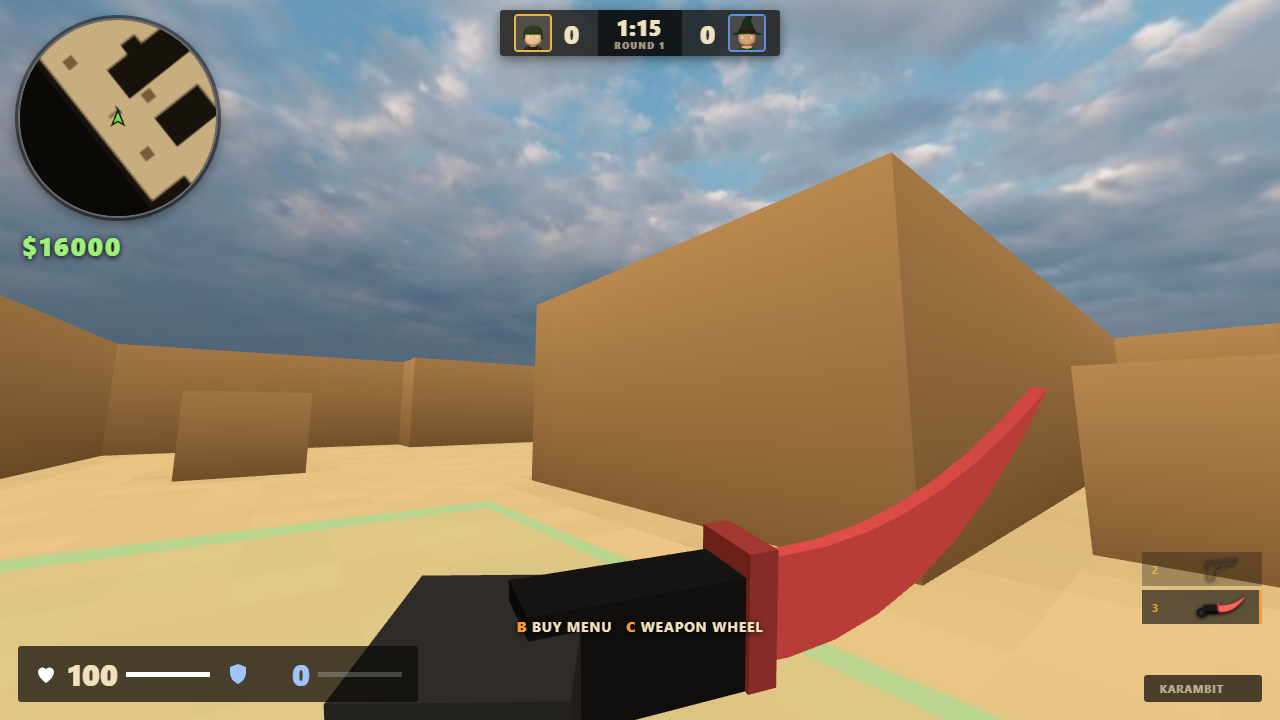
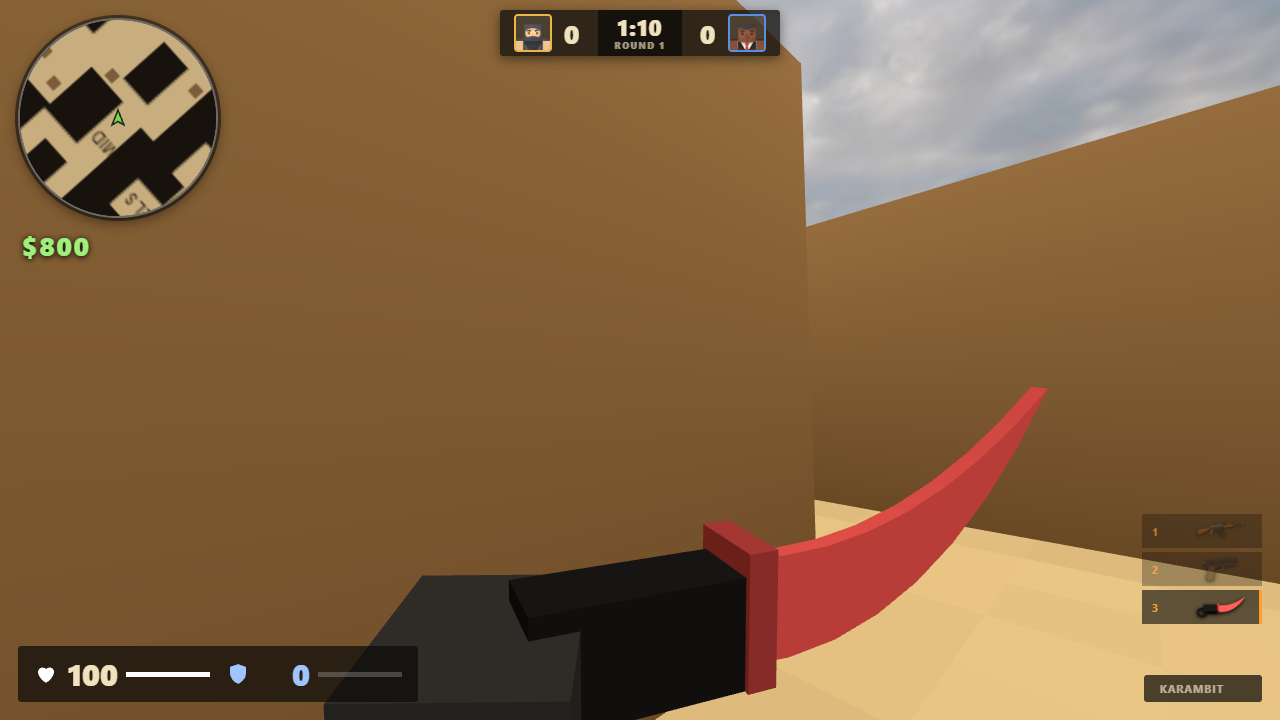
Refresh screenshots, compact the menu and make the weapon adjuster dev-only
- New menu, gameplay, buy wheel and karambit screenshots with the blocky
  characters
- Shrink menu rows so the new Mode and Minecraft rows still fit at 720p
- Show Adjust held weapon only with ?dev (open.py adds it)
- Expose the buy wheel on the debug hooks

diff --git a/index.html b/index.html
@@ -145,12 +145,12 @@
   #loadbar i { height: 11px; background: rgba(255,255,255,0.08); transition: background 0.15s; }
   #loadbar i.on { background: linear-gradient(#ffc069, #ff9d2e); box-shadow: 0 0 6px rgba(255,157,46,0.6); }
   .xp { display: flex; justify-content: space-between; font-size: 11px; font-weight: 700; letter-spacing: 0.08em; color: #fff; text-shadow: 0 1px 3px #000; margin-top: 2px; }
-  .abtn { position: relative; display: flex; align-items: stretch; width: 100%; height: clamp(44px, 8.6vh, 62px); margin: 0 0 10px; padding: 0; border: 0; background: none; cursor: pointer; color: #fff; font: inherit; text-align: left; filter: drop-shadow(0 3px 5px rgba(0,0,0,0.45)); transition: transform 0.12s, filter 0.12s; }
+  .abtn { position: relative; display: flex; align-items: stretch; width: 100%; height: clamp(38px, 6.6vh, 62px); margin: 0 0 10px; padding: 0; border: 0; background: none; cursor: pointer; color: #fff; font: inherit; text-align: left; filter: drop-shadow(0 3px 5px rgba(0,0,0,0.45)); transition: transform 0.12s, filter 0.12s; }
   .abtn:hover:not(:disabled) { transform: translateX(8px); filter: drop-shadow(0 3px 5px rgba(0,0,0,0.45)) brightness(1.12); }
   .abtn:disabled { cursor: default; filter: grayscale(0.85) brightness(0.8) drop-shadow(0 3px 5px rgba(0,0,0,0.45)); }
-  .abtn .ico { flex: 0 0 clamp(44px, 8.6vh, 62px); display: flex; align-items: center; justify-content: center; background: #3a3e45; border: 3px solid #555a63; }
+  .abtn .ico { flex: 0 0 clamp(38px, 6.6vh, 62px); display: flex; align-items: center; justify-content: center; background: #3a3e45; border: 3px solid #555a63; }
   .abtn .ico svg { width: 55%; height: 55%; fill: #fff; }
-  .abtn .lbl { flex: 1; display: flex; align-items: center; padding: 0 22px; margin-left: 6px; font-size: clamp(19px, 3.8vh, 30px); font-weight: 800; letter-spacing: 0.06em; text-transform: uppercase; text-shadow: 0 2px 3px rgba(0,0,0,0.5);
+  .abtn .lbl { flex: 1; display: flex; align-items: center; padding: 0 22px; margin-left: 6px; font-size: clamp(17px, 3.2vh, 30px); font-weight: 800; letter-spacing: 0.06em; text-transform: uppercase; text-shadow: 0 2px 3px rgba(0,0,0,0.5);
     background: linear-gradient(100deg, #d9731a 0%, #b4540d 78%, #5a5e66 78.2%, #6b7078 100%); clip-path: polygon(0 0, 92% 0, 100% 100%, 0 100%); }
   .abtn.alt .lbl { background: linear-gradient(100deg, #8a5a2a 0%, #6a431b 78%, #5a5e66 78.2%, #6b7078 100%); }
   .panel2 { margin: 4px 0 12px; padding: 14px 16px; background: rgba(15, 11, 6, 0.82); border: 1px solid rgba(255,255,255,0.18); color: #f1e2bf; font-size: 13px; }
@@ -165,7 +165,7 @@
   .loadout span { display: block; font-size: 11px; opacity: 0.8; margin-top: 2px; }
   .loadout svg { width: 54px; height: 34px; fill: #cfd3dc; flex: 0 0 auto; }
   #quitbtn.hidden { display: none; }
-  .picker { display: flex; align-items: stretch; gap: 6px; width: 100%; height: clamp(44px, 8.6vh, 62px); margin: 0 0 10px; filter: drop-shadow(0 3px 5px rgba(0,0,0,0.45)); }
+  .picker { display: flex; align-items: stretch; gap: 6px; width: 100%; height: clamp(38px, 6.6vh, 62px); margin: 0 0 10px; filter: drop-shadow(0 3px 5px rgba(0,0,0,0.45)); }
   .picker.hidden { display: none; }
   .pkl.kn > div { display: flex; flex-direction: column; white-space: nowrap; }
   .pkl.kn span { font-size: clamp(14px, 2.4vh, 19px); }
@@ -177,12 +177,12 @@
   .sw:hover { border-color: #fff; } .sw.on { border-color: #fff; box-shadow: 0 0 0 2px #ff9d2e; }
   .sw.custom { background: conic-gradient(red, yellow, lime, cyan, blue, magenta, red); }
   .sw.custom input { position: absolute; inset: -8px; opacity: 0; cursor: pointer; width: 160%; height: 160%; }
-  .pk { flex: 0 0 clamp(44px, 8.6vh, 62px); border: 3px solid #555a63; background: #3a3e45; color: #fff; font-size: 18px; cursor: pointer; }
+  .pk { flex: 0 0 clamp(38px, 6.6vh, 62px); border: 3px solid #555a63; background: #3a3e45; color: #fff; font-size: 18px; cursor: pointer; }
   .pk:hover { background: #d9731a; border-color: #fff; }
   .pkl { flex: 1; display: flex; flex-direction: column; justify-content: center; padding: 0 16px; background: linear-gradient(100deg, #8a5a2a, #6a431b); color: #fff; text-shadow: 0 2px 3px rgba(0,0,0,0.5); }
   .pkl small { font-size: 10px; letter-spacing: 0.14em; text-transform: uppercase; opacity: 0.8; }
   .pkl span { font-size: clamp(15px, 2.8vh, 22px); font-weight: 800; letter-spacing: 0.05em; text-transform: uppercase; }
-  .mcrow { width: 100%; margin: -4px 0 10px; display: flex; flex-direction: column; gap: 4px; }
+  .mcrow { width: 100%; margin: -4px 0 8px; display: flex; flex-direction: column; gap: 4px; }
   .mcrow form { display: flex; gap: 4px; } .mcrow form.hidden, .mcb.hidden { display: none; }
   .mcrow input { flex: 1; min-width: 0; padding: 7px 8px; border: 2px solid #555a63; background: #23262b; color: #fff; font: inherit; font-size: 13px; }
   .mcb { border: 2px solid #555a63; background: #3a3e45; color: #fff; font-size: 12px; letter-spacing: 0.06em; text-transform: uppercase; padding: 7px 10px; cursor: pointer; }
@@ -254,7 +254,7 @@
         <button class="mcb" type="submit">Load</button><button id="mccancel" class="mcb" type="button" aria-label="Cancel">&#10005;</button>
       </form>
       <small id="mcnote"></small>
-      <button id="tunebtn" class="mcb" type="button" onclick="window.__toggleTune()">Adjust held weapon</button>
+      <button id="tunebtn" class="mcb" type="button" hidden onclick="window.__toggleTune()">Adjust held weapon</button>
     </div>
     <div id="kpicker" class="picker">
       <button id="knifeprev" class="pk" aria-label="Previous knife">&#9664;</button>

diff --git a/src/main.js b/src/main.js
@@ -1674,6 +1674,7 @@ function refreshMenuGun() {
     (navigator.clipboard?.writeText(text) ?? Promise.reject()).then(() => { $('tunecopy').textContent = 'Copied!'; }, () => { $('tunecopy').textContent = 'Copy failed (see console)'; console.log(text); });
     setTimeout(() => { $('tunecopy').textContent = 'Copy all values'; }, 1500);
   });
+  if (params.has('dev')) $('tunebtn').hidden = false;      // developer tool: open the game with ?dev to see it
   window.__toggleTune = () => {
     menuHold.open = !menuHold.open;
     panel.classList.toggle('hidden', !menuHold.open);
@@ -1812,7 +1813,7 @@ function frame(now) {
 // debug / test hooks (also used by the automated checks)
 window.__game = {
   P, bot, game, fx, grenades, drops, camera, THREE, castBullet, rayVsTarget, flashPop, spawnGrenade, explodeHE, startFire,
-  pBody, update, startRound, restartMatch, selectWeapon, selectSlot, playerShoot, applyPlayerDamage, damagePlayer, throwFromPlayer,
+  pBody, wheel, update, startRound, restartMatch, selectWeapon, selectSlot, playerShoot, applyPlayerDamage, damagePlayer, throwFromPlayer,
   purchase, giveGun, resetLoadout, addMoney, endRound, killBot, toggleZoom, wheelOpen, wheelPick, wheelMove, SHOP, WEAPONS,
   setMouse(l, r) { mouse.l = l; mouse.r = r; },
   manual(on = true) { game.manual = on; },

diff --git a/README.md b/README.md
@@ -5,7 +5,7 @@ three-lane desert map: **Long A** down the right, **Mid** through the centre, **
 
 ![Main menu](docs/menu.png)
 
-![Gameplay: CS:GO-style HUD with round radar, a bot with a random skin crossing a smoke cloud, AK-47 in hand](docs/gameplay.png)
+![Gameplay: CS:GO-style HUD with round radar, a blocky bot with a random skin running past a smoke cloud, AK-47 in hand](docs/gameplay.png)
 
 | Buy wheel with item pictures | Karambit with a custom blade colour |
 | --- | --- |
